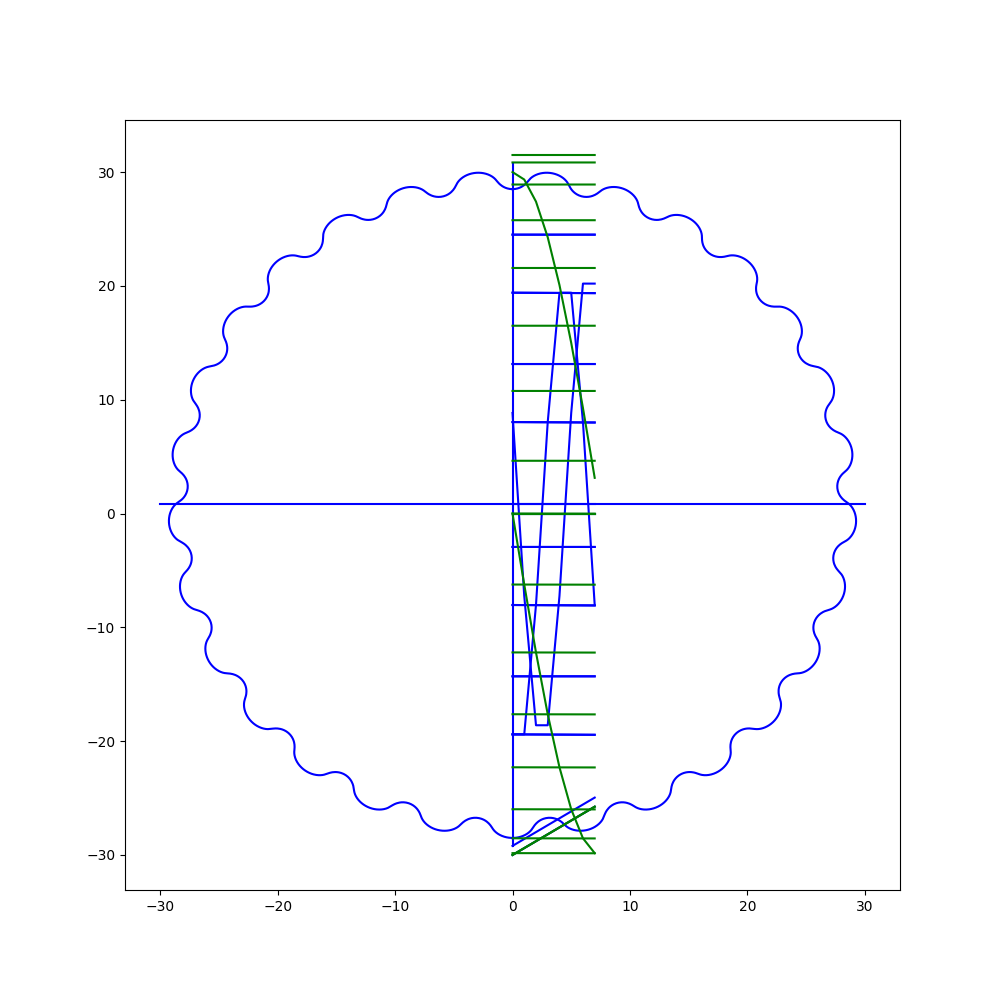
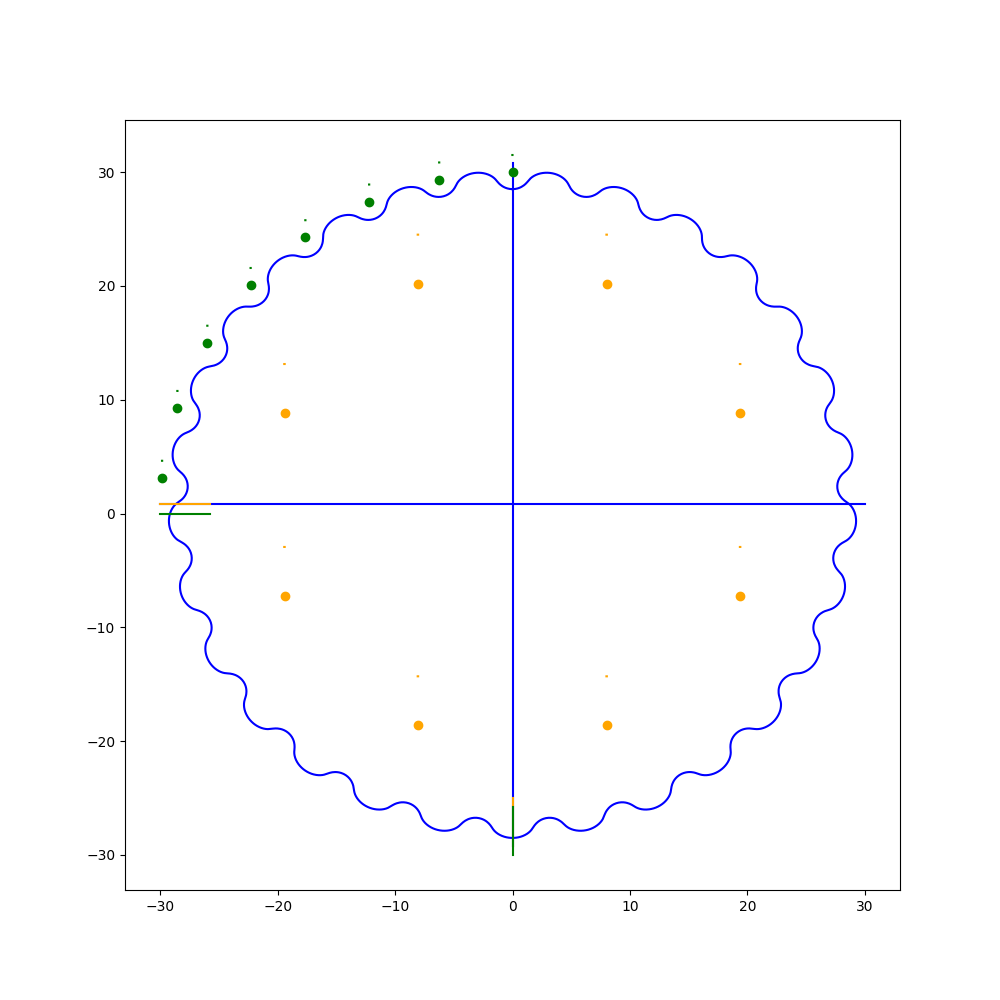
smaller bug fixes

diff --git a/cycloidgeometry.py b/cycloidgeometry.py
@@ -60,57 +60,50 @@ def get_axes(r, steps=100):
     return xs, ys
 
 
-def start_cycloid(t: float):
-    K1 = (e * zp) / (Rp + dRp)
-    x = (
-        (Rp + dRp) * np.sin(t)
-        - e * np.sin(zp * t)
-        + ((K1 * np.sin(zp * t) - np.sin(t)) * (rp + drp))
-        / (math.sqrt(1 + K1**2 - 2 * K1 * np.cos(zc * t)))
-    )
-    y = (
-        (Rp + dRp) * np.cos(t)
-        - e * np.cos(zp * t)
-        + ((K1 * np.cos(zp * t) - np.cos(t)) * (rp + drp))
-        / (math.sqrt(1 + K1**2 - 2 * K1 * np.cos(zc * t)))
-    )
-    x_dir = (x - zc * e * np.sin(zp * t)) / (
-        math.sqrt(
-            (x - zc * e * np.sin(zp * t)) ** 2 + (x - zc * e * np.cos(zp * t)) ** 2
-        )
-    )
-    y_dir = (y - zc * e * np.cos(zp * t)) / (
-        math.sqrt(
-            (y - zc * e * np.sin(zp * t)) ** 2 + (y - zc * e * np.cos(zp * t)) ** 2
-        )
-    )
-    K1 = (e * zp) / (Rp + dRp)
-    pc = (1 + K1**2 - 2 * K1 * np.cos(zc * t)) ** 1.5 / (
-        K1 * (1 + zp) * np.cos(zc * t - zp * K1**2 - 1)
-    )
-    return [t, x, y, x_dir, y_dir, pc]
-
-
 def c_to_o(p: list, degrees: float):
     vector = np.array([[p[0]], [p[1]]])
-    return np.matmul(Rc2w(degrees), vector) + Pc2w(degrees)
+    ret = np.matmul(Rc2w(degrees), vector) + Pc2w(degrees)
+    return ret.flatten()
 
 
 def r_to_o(p: list, degrees: float):
     vector = np.array([[p[0]], [p[1]]])
-    return np.matmul(Rp2w(degrees), vector)
+    ret = np.matmul(Rp2w(degrees), vector)
+    return ret.flatten()
 
 
 def cycloid_to_output_rf(i: list, degrees: float):
     new = c_to_o(i[1:3], degrees)
     newnormvec = c_to_o(i[3:5], degrees)
-    return [i[0], new[0, 0], new[1, 0], newnormvec[0, 0], newnormvec[1, 0]]
+    return [i[0], new[0], new[1], newnormvec[0], newnormvec[1]]
 
 
 def rollerpins_to_output_rf(i: list, degrees: float):
     new = r_to_o(i[1:3], degrees)
     newnormvec = r_to_o(i[3:5], degrees)
-    return [i[0], new[0, 0], new[1, 0], newnormvec[0, 0], newnormvec[1, 0]]
+    return [i[0], new[0], new[1], newnormvec[0], newnormvec[1]]
+
+def start_cycloid(t: float):
+    K1 = (e * zp) / (Rp + dRp)
+    x = (
+        (Rp + dRp) * np.sin(t)
+        - e * np.sin(zp * t)
+        + ((K1 * np.sin(zp * t) - np.sin(t)) * (rp + drp)) / (math.sqrt(1 + K1**2 - 2 * K1 * np.cos(zc * t)))
+    )
+    y = (
+        (Rp + dRp) * np.cos(t)
+        - e * np.cos(zp * t)
+        + ((K1 * np.cos(zp * t) - np.cos(t)) * (rp + drp)) / (math.sqrt(1 + K1**2 - 2 * K1 * np.cos(zc * t)))
+    )
+    x_dir = (x - zc * e * np.sin(zp * t)) / (
+        math.sqrt((x - zc * e * np.sin(zp * t)) ** 2 + (x - zc * e * np.cos(zp * t)) ** 2)
+    )
+    y_dir = (y - zc * e * np.cos(zp * t)) / (
+        math.sqrt((y - zc * e * np.sin(zp * t)) ** 2 + (y - zc * e * np.cos(zp * t)) ** 2)
+    )
+    K1 = (e * zp) / (Rp + dRp)
+    pc = (1 + K1**2 - 2 * K1 * np.cos(zc * t)) ** 1.5 / (K1 * (1 + zp) * np.cos(zc * t - zp * K1**2 - 1))
+    return [t, x, y, x_dir, y_dir, pc]
 
 
 def start_outputpinhole(t: float, i: int):
@@ -142,18 +135,16 @@ class Cycloid:
     color: str = "Blue"
 
     def __init__(self):
-        self.tlist = np.linspace(
-            0, 2 * np.pi, self.num_points
-        )  # independent variable for the parametric equations
-        self.basis = np.array(
+        self.tlist: np.ndarray = np.linspace(0, 2 * np.pi, self.num_points)  # independent variable for the parametric equations
+        self.basis: np.ndarray = np.array(
             list(map(start_cycloid, self.tlist))
         )  # setting fundemental points for the cycloid with the sturucture: [points, normal vector, radius of curvature]
         xs, ys = get_axes(Rp)  # axes of the cycloid
-        self.xaxis = np.array(xs)  # x axis of the cycloid
-        self.yaxis = np.array(ys)  # y axis
-        self.txaxis = self.xaxis  # position of x axis
-        self.tyaxis = self.yaxis  # position of y axis
-        self.pos = np.empty(2)  # position of the cycloid
+        self.xaxis: np.ndarray = np.array(xs)  # x axis of the cycloid
+        self.yaxis: np.ndarray = np.array(ys)  # y axis
+        self.txaxis: np.ndarray = self.xaxis  # position of x axis
+        self.tyaxis: np.ndarray = self.yaxis  # position of y axis
+        self.pos: np.ndarray = np.empty(2)  # position of the cycloid
 
     def set_pos(self, degrees):
         d = [degrees for j in range(self.basis.shape[0])]
@@ -170,24 +161,27 @@ class Cycloid:
 
 class OutputPinHoles:
     num_points: int = 5000
-    color: str = "Blue"
+    color: str = "Orange"
 
     def __init__(self):
         self.npins: int = zw
         self.tlist: np.ndarray = np.linspace(
             0, 2 * np.pi, self.num_points
         )  # independent variable for the parametric equations
+        print(f"self.tlist: {self.tlist}")
         self.basis = np.array(
             [
                 list(
                     map(
                         start_outputpinhole,
                         self.tlist,
-                        [i for j in range(self.tlist.shape[0])],
-                    ))
-                    for i in range(1, self.npins + 1)
+                        [i for j in range(self.num_points)],
+                    )
+                )
+                for i in range(1, self.npins + 1)
             ]
         )  # setting fundemental points for the cycloid with the sturucture: [points, normal vector, radius of curvature]
+        print(f"self.basis: {self.basis}")
         xs, ys = get_axes(Rp)  # axes of the cycloid
         self.xaxis = np.array(xs)  # x axis of the cycloid
         self.yaxis = np.array(ys)  # y axis
@@ -211,14 +205,15 @@ class OutputPinHoles:
         self.txaxis = np.array(list(map(c_to_o, self.xaxis, d)))
         self.tyaxis = np.array(list(map(c_to_o, self.yaxis, d)))
         self.tcenters = np.array(list(map(c_to_o, self.centers, d)))
+        print(f"self.pos: {self.pos}")
         return [self.pos, self.txaxis, self.tyaxis]
 
     def plot(self):
         for i in range(self.npins):
-            plt.plot(self.pos[i, :, 1:3], color=self.color)
-        plt.plot(self.txaxis[:, :, 0], color=self.color)
-        plt.plot(self.tyaxis[:, :, 0], color=self.color)
-        plt.plot(self.tcenters[:, :, 0], color=self.color)
+            plt.plot(self.pos[i, :, 1], self.pos[i, :, 2], color=self.color)
+        plt.plot(self.txaxis[:, 0], self.txaxis[:, 1], color=self.color)
+        plt.plot(self.tyaxis[:, 0], self.tyaxis[:, 1], color=self.color)
+        plt.plot(self.tcenters[:, 0], self.tcenters[:, 1], "o", color=self.color)
 
 
 class RollerPins:
@@ -233,12 +228,14 @@ class RollerPins:
         self.basis = np.array(
             [
                 np.array(
-                    list(map(
-                        start_rollerpin,
-                        self.tlist,
-                        [i for j in range(self.tlist.shape[0])],
+                    list(
+                        map(
+                            start_rollerpin,
+                            self.tlist,
+                            [i for j in range(self.tlist.shape[0])],
+                        )
                     )
-                ))
+                )
                 for i in range(1, self.npins + 1)
             ]
         )  # setting fundemental points for the cycloid with the sturucture: [points, normal vector, radius of curvature]
@@ -269,10 +266,10 @@ class RollerPins:
 
     def plot(self):
         for i in range(self.npins):
-            plt.plot(self.pos[i, :, 1:3], color=self.color)
-        plt.plot(self.txaxis[:,:,0], color=self.color)
-        plt.plot(self.tyaxis[:,:,0], color=self.color)
-        plt.plot(self.tcenters[:,:,0], color=self.color)
+            plt.plot(self.pos[i, :, 1], self.pos[i, :, 2], color=self.color)
+        plt.plot(self.txaxis[:, 0], self.txaxis[:, 1], color=self.color)
+        plt.plot(self.tyaxis[:, 0], self.tyaxis[:, 1], color=self.color)
+        plt.plot(self.tcenters[:, 0], self.tcenters[:, 1], "o", color=self.color)
 
 
 class OutputPins:
@@ -287,11 +284,13 @@ class OutputPins:
         self.basis = np.array(
             [
                 np.array(
-                    list(map(
-                        start_outputpinhole,
-                        self.tlist,
-                        [i for j in range(self.tlist.shape[0])],
-                    ))
+                    list(
+                        map(
+                            start_outputpinhole,
+                            self.tlist,
+                            [i for j in range(self.tlist.shape[0])],
+                        )
+                    )
                     for i in range(1, self.npins + 1)
                 )
             ]
@@ -299,8 +298,8 @@ class OutputPins:
         xs, ys = get_axes(Rp)  # axes of the cycloid
         self.xaxis = np.array(xs)  # x axis of the cycloid
         self.yaxis = np.array(ys)  # y axis
-        self.txaxis = self.xaxis  # position of x axis
-        self.tyaxis = self.yaxis  # position of y axis
+        self.txaxis = self.xaxis
+        self.tyaxis = self.yaxis
         self.centers = np.array(
             [
                 [
@@ -314,9 +313,9 @@ class OutputPins:
     def plot(self):
         for i in range(self.npins):
             plt.plot(self.basis[i, :, 1:3], color=self.color)
-        plt.plot(self.txaxis, color=self.color)
-        plt.plot(self.tyaxis, color=self.color)
-        plt.plot(self.tcenters, color=self.color)
+        plt.plot(self.xaxis[:, 0], self.xaxis[:, 1], color=self.color)
+        plt.plot(self.yaxis[:, 0], self.xaxis[:, 1], color=self.color)
+        plt.plot(self.centers[:, 0], self.centers[:, 1], "o", color=self.color)
 
 
 @dataclass
@@ -327,18 +326,13 @@ class Material:
 
 
 # Hertzian contact theory
-def a(
-    Fc, m_1: Material, m_2: Material, concavity
-):  # half the contact deformation width
+def a(Fc, m_1: Material, m_2: Material, concavity):  # half the contact deformation width
     p_star = 0
     if concavity == "Convex and concave":
         p_star = abs((m_1.p * m_2.p) / (m_1.p - m_2.p))
     if concavity == "Convex and convex":
         p_star = abs((m_1.p * m_2.p) / (m_1.p + m_2.p))
-    return np.sqrt(
-        (4 * Fc * p_star * (m_1.e * (1 - m_1.v**2) + m_2.e(1 - m_2.v**2)))
-        / (np.pi * b * m_1.e * m_2.e)
-    )
+    return np.sqrt((4 * Fc * p_star * (m_1.e * (1 - m_1.v**2) + m_2.e(1 - m_2.v**2))) / (np.pi * b * m_1.e * m_2.e))
 
 
 def delta(Fc, m_1: Material, m_2: Material, b, concavity):  # deformation

diff --git a/plotting.py b/plotting.py
@@ -1,17 +1,17 @@
 import numpy as np
 import matplotlib.pyplot as plt
-import cfdmclasses
+import cycloidgeometry
 
 angle = 0
 
 #creating objects
-cycloid = cfdmclasses.Cycloid()
+cycloid = cycloidgeometry.Cycloid()
 
-outputpinholes = cfdmclasses.OutputPinHoles()
+outputpinholes = cycloidgeometry.OutputPinHoles()
 
-rollerpins = cfdmclasses.RollerPins()
+rollerpins = cycloidgeometry.RollerPins()
 
-outputpins = cfdmclasses.OutputPins()
+outputpins = cycloidgeometry.OutputPins()
 
 
 #plotting
